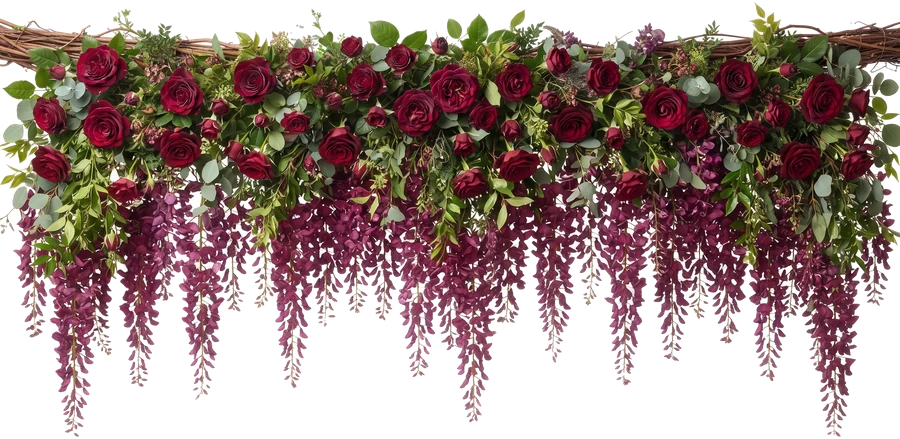
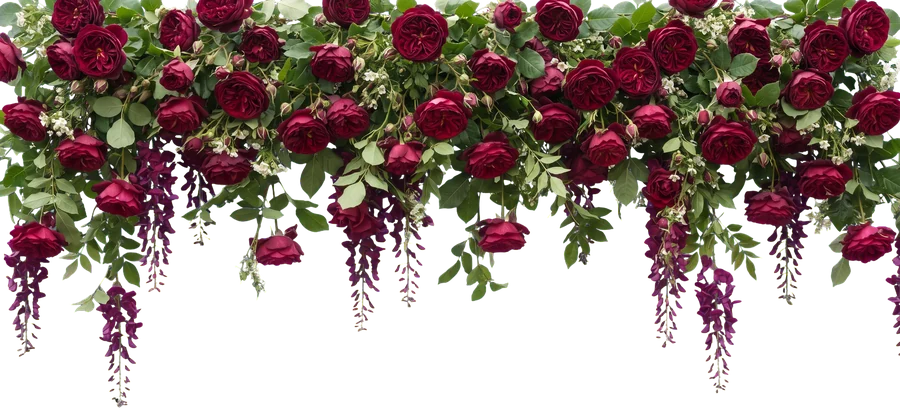
XV Niralys v3: letras estilo Olivia (Gemini), marco de rosas sin bordes blancos (fondo azul croma), nuevo marco del mensaje, espacios

diff --git a/mis-xv-niralys/index.html b/mis-xv-niralys/index.html
@@ -195,8 +195,8 @@ const CONFIG = {
     guirnalda: "recursos/guirnalda.webp",           // glicinias y rosas colgando
     rosal: "recursos/rosal.webp",                   // rosal de la esquina (el otro lado es el mismo, volteado)
     marcoFiligrana: "recursos/marco-filigrana.webp", // marco dorado en arco del mensaje ("" = arco con doble moldura hecho con código)
-    ventanaMarco: { x: 21.4, y: 24.3, w: 57.1, h: 55.7 },   // hueco del marco (%): izquierda, arriba, ancho, alto (se rellena de rosa claro)
-    textoMarco: { x: 27, y: 30, w: 46, h: 42 },            // dónde va el texto dentro del marco (%), sin pisar los adornos
+    ventanaMarco: { x: 13.3, y: 15.4, w: 73.6, h: 76.1 },   // hueco del marco (%): izquierda, arriba, ancho, alto (se rellena de rosa claro)
+    textoMarco: { x: 21, y: 23, w: 58, h: 50 },            // dónde va el texto dentro del marco (%), sin pisar los adornos
     corona: "recursos/corona.webp",                 // tiara dorada sobre las tarjetas
     esquina: "recursos/esquina.webp",               // filigrana dorada de las esquinas de abajo
     mariposa: "recursos/mariposa.webp",             // mariposas doradas que vuelan
@@ -218,7 +218,8 @@ const CONFIG = {
     "regalos-titulo": "recursos/titulo-sobres.webp",
     "confirmacion-titulo": "recursos/titulo-confirma.webp"
   },
-  marcoFlores: "recursos/marco-flores.webp",   // marco de rosas reales sobre la foto de la portada
+  marcoFlores: "recursos/marco-flores.webp",
+  misXvOro: "recursos/titulo-misxv.webp",      // "Mis XV Años" en dorado (Gemini)   // marco de rosas reales sobre la foto de la portada
 
   petalos: true,            // pétalos rosados cayendo
 
@@ -596,13 +597,17 @@ body.esperando #petalos { display: none; }
 }
 .rol { display: block; margin: .2em 0 .9em; font: 600 3.2cqw/1 var(--caps); letter-spacing: .22em; text-transform: uppercase; color: var(--oro-osc); }
 /* ===== Niralys v2 ===== */
-.titulo-oro { display: block; width: auto; max-width: 82cqw; height: 15cqw; object-fit: contain; margin: 0 auto; filter: drop-shadow(0 1px 1px rgba(80, 30, 10, .25)); }
-#vestimenta-titulo .titulo-oro, #confirmacion-titulo .titulo-oro { height: 11cqw; }
-#galeria-titulo .titulo-oro { height: 12cqw; }
-.marco-arco .texto p { font-size: 4.3cqw; line-height: 1.4; }
+.titulo-oro { display: block; width: 60cqw; height: auto; margin: 0 auto; filter: drop-shadow(0 2px 3px rgba(60, 20, 10, .3)); }
+#fecha-titulo .titulo-oro { width: 72cqw; }
+#recepcion-titulo .titulo-oro { width: 56cqw; }
+#vestimenta-titulo .titulo-oro, #confirmacion-titulo .titulo-oro { width: 58cqw; }
+#galeria-titulo .titulo-oro { width: 54cqw; }
+#portada .arriba img { display: block; width: 56cqw; margin: 0 auto; }
+.marco-arco .texto p { font-size: 4.6cqw; line-height: 1.45; }
 .firma-oro { display: block; width: 40cqw; margin: 1cqw auto 0; }
-#portada .portada-img { top: 14%; height: 86%; object-position: 66% 8%; -webkit-mask-image: linear-gradient(transparent 0, #000 7%, #000 58%, transparent 86%); mask-image: linear-gradient(transparent 0, #000 7%, #000 58%, transparent 86%); }
-#padres { padding-top: 34cqw; }
+#portada .portada-img { top: 17%; height: 83%; object-position: 66% 8%; -webkit-mask-image: linear-gradient(transparent 0, #000 7%, #000 58%, transparent 86%); mask-image: linear-gradient(transparent 0, #000 7%, #000 58%, transparent 86%); }
+#padres { padding-top: 26cqw; }
+#padres .invito { font-size: 3.5cqw; letter-spacing: .12em; padding-left: .12em; }
 #padres > .revela:first-of-type, #padres .invito { position: relative; max-width: 74cqw; margin-left: auto; margin-right: auto; }
 #padres > .revela:first-of-type { padding: 6cqw 4cqw 4cqw; border-radius: 6cqw; background: radial-gradient(ellipse at center, rgba(255, 250, 244, .92) 55%, rgba(255, 250, 244, 0) 100%); }
 #padres-nombres { font-size: 8.4cqw; }
@@ -1033,6 +1038,10 @@ body.esperando #petalos { display: none; }
   if (IM.nombreOro && $('mensaje-firma')) {
     const f = $('mensaje-firma'); f.textContent = '';
     const im = document.createElement('img'); im.className = 'firma-oro'; im.src = IM.nombreOro; im.alt = CONFIG.nombre; f.appendChild(im);
+  }
+  if (CONFIG.misXvOro && $('arriba')) {
+    const a = $('arriba'); a.textContent = '';
+    const im = document.createElement('img'); im.src = CONFIG.misXvOro; im.alt = CONFIG.arriba; a.appendChild(im);
   }
   if (CONFIG.marcoFlores) {
     const m = document.createElement('img'); m.className = 'marco-flores'; m.src = CONFIG.marcoFlores; m.alt = ''; m.decoding = 'async';
